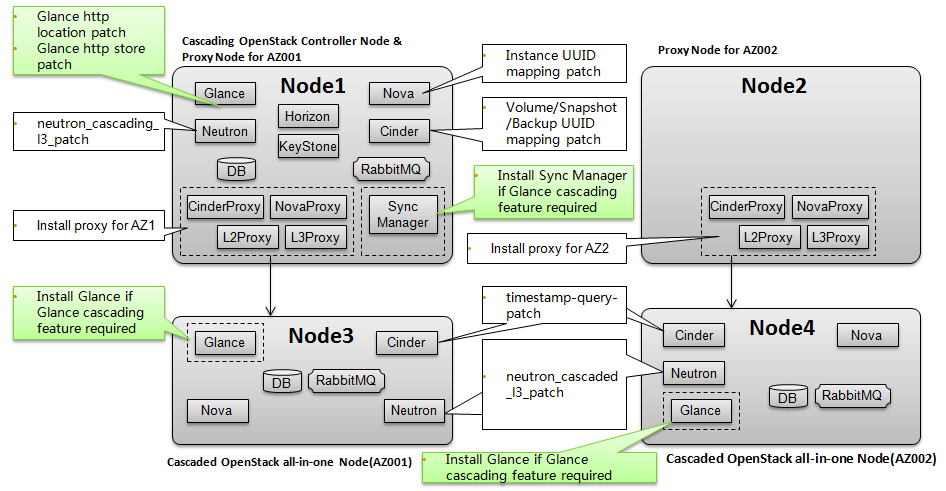
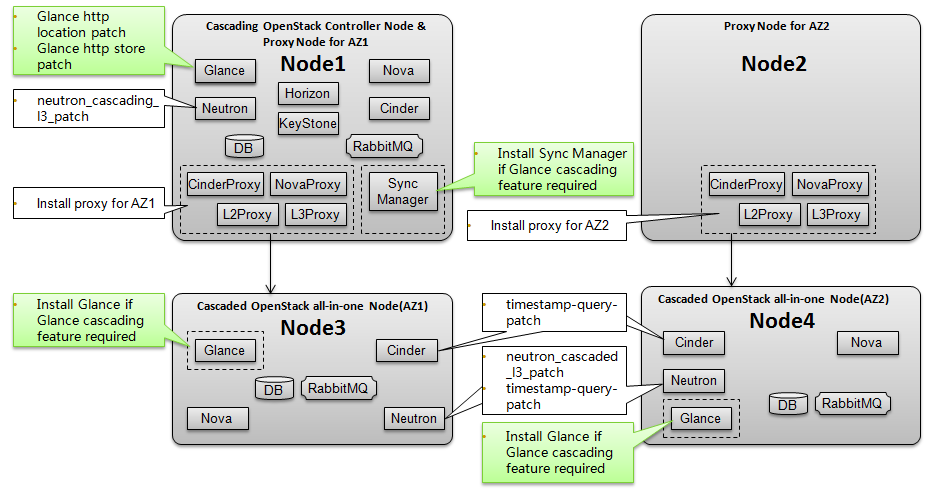
Modify Readmd for the remove of mapping_uuid patch
Modify Readmd for the remove of mapping_uuid patch, so we modify some
README.md files to keep consistently.

diff --git a/README.md b/README.md
@@ -10,7 +10,7 @@ Important to know
 * Only about 15k code lines developed for OpenStack cascading.
 * The source code now based on Juno is for PoC only. Refactory will be done constantly to reach OpenStack acceptance standard.
 * The Neutron cascading using the feature of provider network. But horizon doen't support provider network very well. So you have to use Neutron CLI to create a network.
-* Support L2 networking(VxLAN) across cascaded OpenStack, but only p2p remote host IP tunneling supported now.L2 networking through L2GW to reduce population traffic and simplify networking topology will be developed in the near future.
+* Support L2 networking(VxLAN) across cascaded OpenStack, but only point2point remote host IP tunneling supported now.L2 networking through L2GW to reduce population traffic and simplify networking topology will be developed in the near future.
 * The L3 networking across casacaded OpenStack will set up tunneling network for piggy data path, useing GRE tunneling over extra_route to brige the router in different cascaded OpenStack.Therefore, the loca L2 network (VLAN,VxLAN) in one cascaded OpenStack can reach L2 network(VLAN,VxLAN) located in another cascaded OpenStack.
 * Glance cascading using Glance V2 API. Only CLI/pythonclient support V2 API, the Horizon doesn't support that version. So image management should be done through CLI, and using V2 only. Otherwise, the glance cascading cannot work properly.
 * Glance cascading is not used by default, eg, useing global Glance by default. If Glance cascading is required, configuration is required.
@@ -59,7 +59,6 @@ Feature Supported
 
 Known Issues
 ------------------
-* Use "admin" role to experience these feature first, multi-tenancy has not been tested well.
 * Launch VM only support "boot from image", "boot from volume", "boot from snapshot"
 * Flavor only support new created flavor synchronized to the cascaded OpenStack, does not support flavor update synchronization to cascaded OpenStack yet.
 
@@ -94,26 +93,6 @@ Installation without Glance cascading
 * **Juno pachtes installation step by step**
 
 1. Node1
-  - Patches for Nova - instance_mapping_uuid_patch
-
-    This patch is to make the Nova proxy being able to translate the cascading level VM's uuid to cascadede level VM's uuid
-
-    Navigate to the folder
-    ```
-    cd ./tricircle/juno-patches/nova/instance_mapping_uuid_patch
-    ```
-    follow README.md instruction to install the patch
-
-  - Patches for Cinder - Volume/SnapShot/Backup UUID mapping patch
-
-    This patch is to make the Cinder proxy being able to translate the cascading level (Volume/Snapshot/backup)'s uuid to cascaded level (Volume/Snapshot/backup)'s uuid
-
-    Navigate to the folder
-    ```
-    cd ./tricircle/juno-patches/cinder/uuid-mapping-patch
-    ```
-    follow README.md instruction to install the patch
-
   - Patches for Neutron - neutron_cascading_l3_patch
 
     This patch is to enable cross cascaded OpenStack L3 routing over extra route.The mapping between cascaded OpenStack and it's onlink external network which is used for GRE tunneling data path
@@ -135,6 +114,16 @@ Installation without Glance cascading
     ```
     follow README.md instruction to install the patch
 
+  - Patches for Neutron - neutron_timestamp_cascaded_patch
+
+    This patch is to make Neutron being able to provide timestamp based port query.
+
+    Navigate to the folder
+    ```
+    cd ./tricircle/juno-patches/neutron/neutron_timestamp_cascaded_patch
+    ```
+    follow README.md instruction to install the patch
+
   - Patches for Neutron - neutron_cascaded_l3_patch
 
     This patch is to enable cross cascaded OpenStack L3 routing over extra route..
@@ -153,6 +142,16 @@ Installation without Glance cascading
     Navigate to the folder
     ```
     cd ./tricircle/juno-patches/cinder/timestamp-query-patch
+    ```
+    follow README.md instruction to install the patch
+
+  - Patches for Neutron - neutron_timestamp_cascaded_patch
+
+    This patch is to make Neutron being able to provide timestamp based port query.
+
+    Navigate to the folder
+    ```
+    cd ./tricircle/juno-patches/neutron/neutron_timestamp_cascaded_patch
     ```
     follow README.md instruction to install the patch
 
@@ -209,14 +208,7 @@ Installation without Glance cascading
     cd ./tricircle/novaproxy
     ```
     follow README.md instruction to install the proxy. Please change the configuration value in the install.sh according to your environment setting
-
-    Navigate to the  folder
-    ```
-    cd ./tricircle/icehouse-patches/nova/instance_mapping_uuid_patch/nova/objects
-    cp instance.py $python_installation_path/site-packages/nova/objects/
-    ```
-    This file is a patch for instance UUID mapping used in the proxy nodes.
-
+    
   - Cinder proxy
 
     Navigate to the folder
@@ -224,14 +216,6 @@ Installation without Glance cascading
     cd ./tricircle/cinderproxy
     ```
     follow README.md instruction to install the proxy. Please change the configuration value in the install.sh according to your environment setting
-
-    Navigate to the  folder
-    ```
-    cd ./tricircle/icehouse-patches/cinder/uuid-mapping-patch/cinder/db/sqlalchemy
-    cp models.py $python_installation_path/site-packages/cinder/db/sqlalchemy
-    ```
-    This file is a patch for instance UUID mapping used in the proxy nodes.
-
 
   - L2 proxy
 
@@ -320,5 +304,5 @@ Upgrade to Glance cascading
 5. Experience Glance cascading
   - Restart all related service
   - Use Glance V2 api to create Image, Upload Image or patch location for Image. Image should be able to sync to distributed Glance if sync_enabled is setting to True
-  - Sync image only during first time usage but not uploading or patch location can works by just modify the option 'sync_strategy=nova' in /etc/glance-sync.conf file and restart the glance sync service.
+  - Sync image only during first time usage but not uploading or patch location is still in testing phase, may not work properly.
   - Create VM/Volume/etc from Horizon

diff --git a/novaproxy/README.md b/novaproxy/README.md
@@ -31,7 +31,7 @@ We provide two ways to install the nova proxy code. In this section, we will gui
 
 * **Note:**
 
-    - Make sure you have an existing installation of **Openstack Icehouse**.
+    - Make sure you have an existing installation of **Openstack Juno**.
     - We recommend that you Do backup at least the following files before installation, because they are to be overwritten or modified:
         $NOVA_CONFIG_PARENT_DIR/nova.conf
         (replace the $... with actual directory names.)
@@ -97,7 +97,7 @@ We provide two ways to install the nova proxy code. In this section, we will gui
 
     In case the automatic installation process is not complete, please check the followings:
 
-    - Make sure your OpenStack version is Icehouse.
+    - Make sure your OpenStack version is Juno.
 
     - Check the variables in the beginning of the install.sh scripts. Your installation directories may be different from the default values we provide.
 

diff --git a/juno-patches/glance/glance_location_patch/README.md b/juno-patches/glance/glance_location_patch/README.md
@@ -13,7 +13,7 @@ Introduction
    glance/common/config.py
    glance/common/exception.py
 
-**Because in Juno, the code of glance store part is move out of the glance as an independent python project, the modification in Icehouse about the glance store is moved to the glance_store in Juno. **
+**Because in Juno, the code of glance store part is move out of the glance as an independent python project, the modification in Juno about the glance store is moved to the glance_store in Juno. **
 
  Install
  ------------------------------

diff --git a/juno-patches/nova/instance_mapping_uuid_patch/README.md b/juno-patches/nova/instance_mapping_uuid_patch/README.md
@@ -28,7 +28,7 @@ We provide two ways to install the instance_mapping_uuid patch code. In this sec
 
 * **Note:**
 
-    - Make sure you have an existing installation of **Openstack Icehouse**.
+    - Make sure you have an existing installation of **Openstack Juno**.
     - We recommend that you Do backup at least the following files before installation, because they are to be overwritten or modified:
 
 * **Manual Installation**
